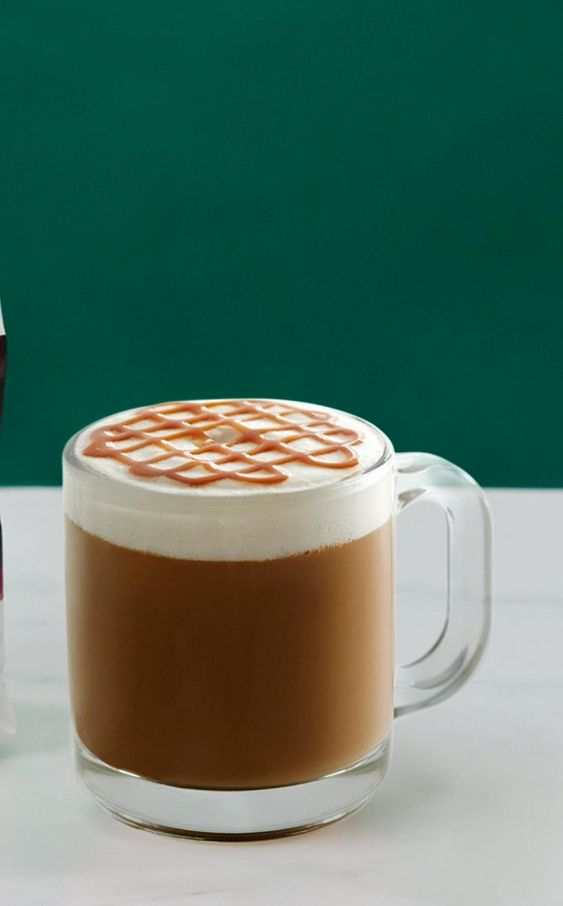
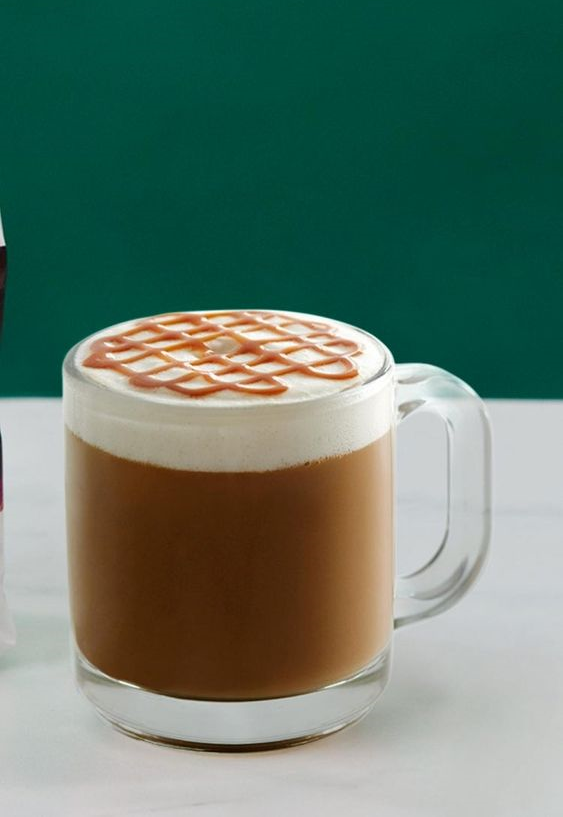
Coffee_Details_inicio

diff --git a/src/components/cards/CoffeeDetails.jsx b/src/components/cards/CoffeeDetails.jsx
@@ -1,7 +1,16 @@
-function CoffeeDetails() { 
-    return (
-       <h1>Coffee Details</h1>
-    )
-}       
 
-export default CoffeeDetails 
+function CoffeeDetails({ imgSrc, title, subtitle, description }) {
+
+    return (
+        <div class="flex h-52 w-96 shadow-lg rounded-lg border border-solid border-slate-300">
+            <div class="flex justify-center w-2/5" >
+                <img src={imgSrc} className="flex h-32 w-62 justify-center mt-6 rounded-lg" alt={title} />
+            </div>
+            <div className="w-3/5 ">
+
+            </div> 
+        </div>
+    );
+}
+
+export default CoffeeDetails

diff --git a/src/routes/Coffee.jsx b/src/routes/Coffee.jsx
@@ -1,11 +1,17 @@
 import { useLocation } from "react-router-dom"
+import CoffeeDetails from "../components/cards/CoffeeDetails";
 
 function Coffee(){
     const location = useLocation();
     const { imgSrc, title, subtitle, price } = location.state || {};
 
     return (
+        <>
         <h1>{title}</h1>
+        <CoffeeDetails imgSrc="src/assets/images/coffee/product/Caramel_Macchiato4.png" />
+        </>
+        
+        
     )
 }
 

diff --git a/src/utils/items.js b/src/utils/items.js
@@ -20,7 +20,7 @@ export const items = [
         medium: 4.50,
         large: 5.50
     },
-    image: 'src/assets/images/coffee/product/Caramel_Macchiato2.png',
+    image: 'src/assets/images/coffee/product/Caramel_Macchiato4.png',
     category:'Saborizados'
   },
   {
